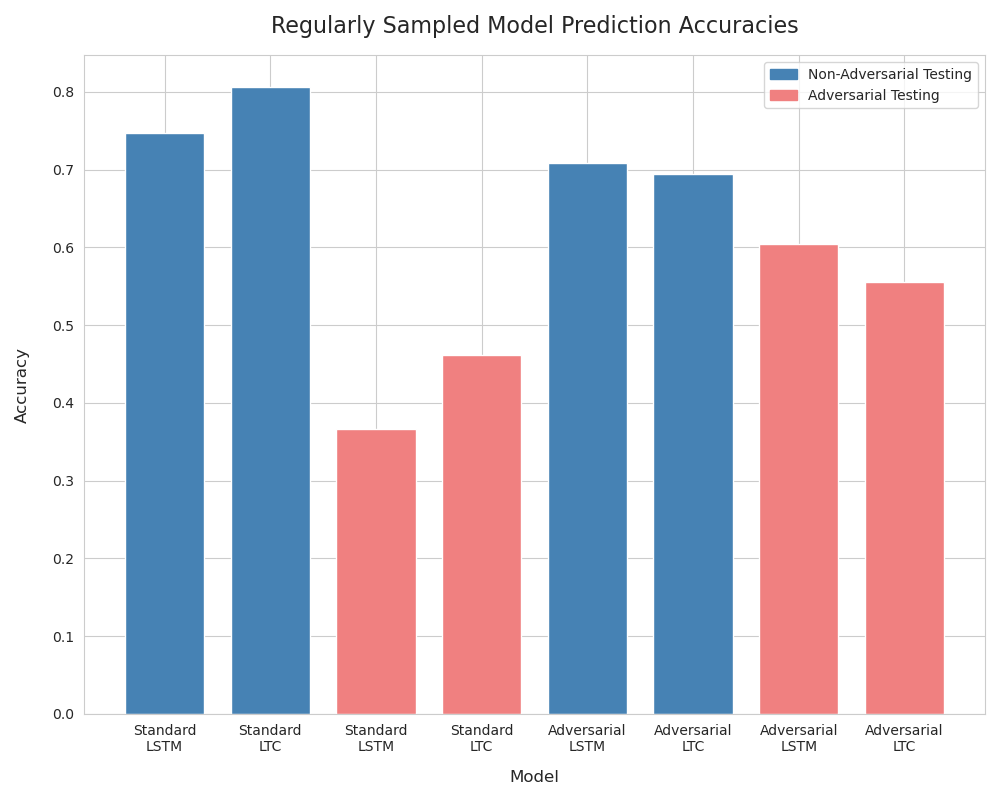
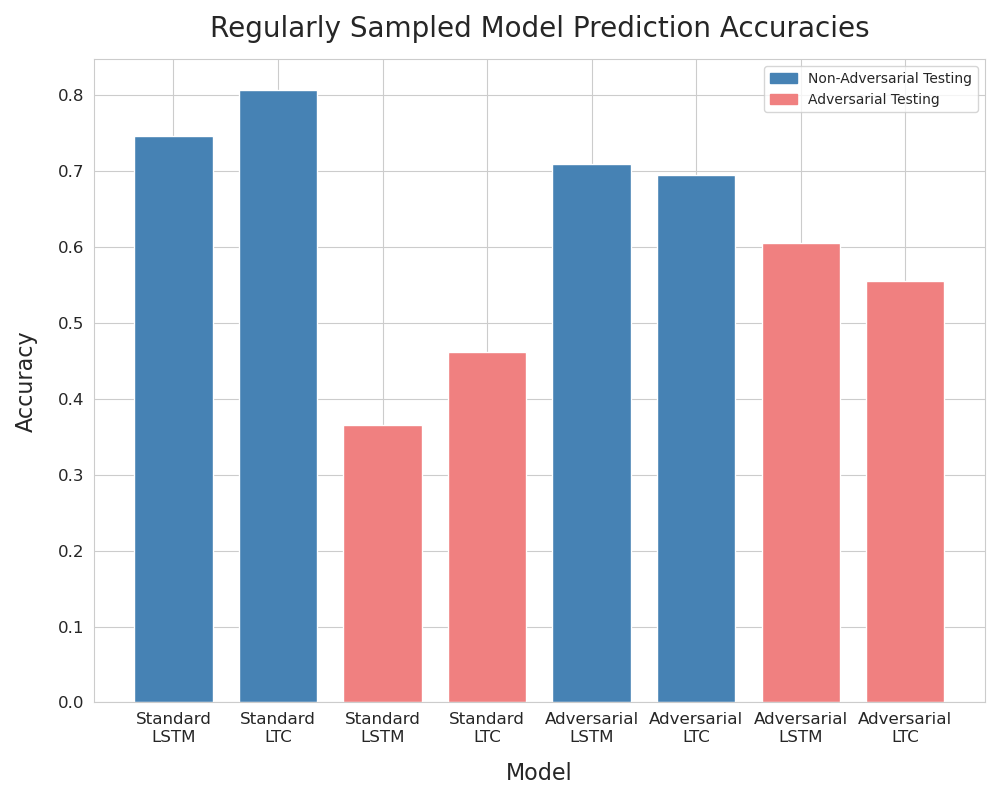
fixed formatting of plots

diff --git a/accuracy_plot.py b/accuracy_plot.py
@@ -150,14 +150,14 @@ def plot_all_models_accuracy_bar(models, model_accuracies, regular):
   legend_colors = ['steelblue', 'lightcoral']
   legend_handles = [mpatches.Patch(color=color) for color in legend_colors]
   plt.legend(legend_handles, legend_labels, facecolor='white', loc='upper right')
-  plt.xlabel('Model', fontsize = 12, labelpad = 0)
-  plt.ylabel('Accuracy', fontsize = 12, labelpad = 16)
+  plt.xlabel('Model', fontsize = 16, labelpad = 0)
+  plt.ylabel('Accuracy', fontsize = 16, labelpad = 14)
   if regular:
-    plt.title("Regularly Sampled Model Prediction Accuracies", fontsize = 16, pad = 16.0)
+    plt.title("Regularly Sampled Model Prediction Accuracies", fontsize = 20, pad = 16.0)
   else:
-    plt.title("Irregularly Sampled Model Prediction Accuracies", fontsize = 16, pad = 16.0)
-  plt.yticks(fontsize=10)
-  plt.xticks(fontsize=10)
+    plt.title("Irregularly Sampled Model Prediction Accuracies", fontsize = 20, pad = 16.0)
+  plt.yticks(fontsize=12)
+  plt.xticks(fontsize=12)
   plt.tight_layout()
   if regular:
     plt.savefig(os.path.join("logs", "regular_model_accuracies.pdf"))

diff --git a/models.py b/models.py
@@ -1,6 +1,6 @@
 import tensorflow as tf
 from ncps import wirings
-from ncps.tf import LTC
+from ncps.tf import CfC, LTC
 
 def build_model(model_type, training_mode, testing_mode, batch_size, seq_length, num_x_features, regular, num_nodes=256, num_outputs=7, adv_eps=0.1):
   if model_type == "LSTM":
@@ -43,8 +43,8 @@ class AdaptableRNNModel(tf.keras.Model):
     self.adversarial_eps = adversarial_eps
     self.loss_fn = tf.keras.losses.SparseCategoricalCrossentropy(from_logits=False)
     if self.adversarial_eps > 0:
-        attack_iters = int(max(min(self.adversarial_eps, 4), 1))
-        self.fgsm = IFGSM(self.adversarial_eps, attack_iters)
+      attack_iters = int(max(min(self.adversarial_eps, 4), 1))
+      self.fgsm = IFGSM(self.adversarial_eps, attack_iters)
 
   def get_model_type(self):
     return self.model_type
